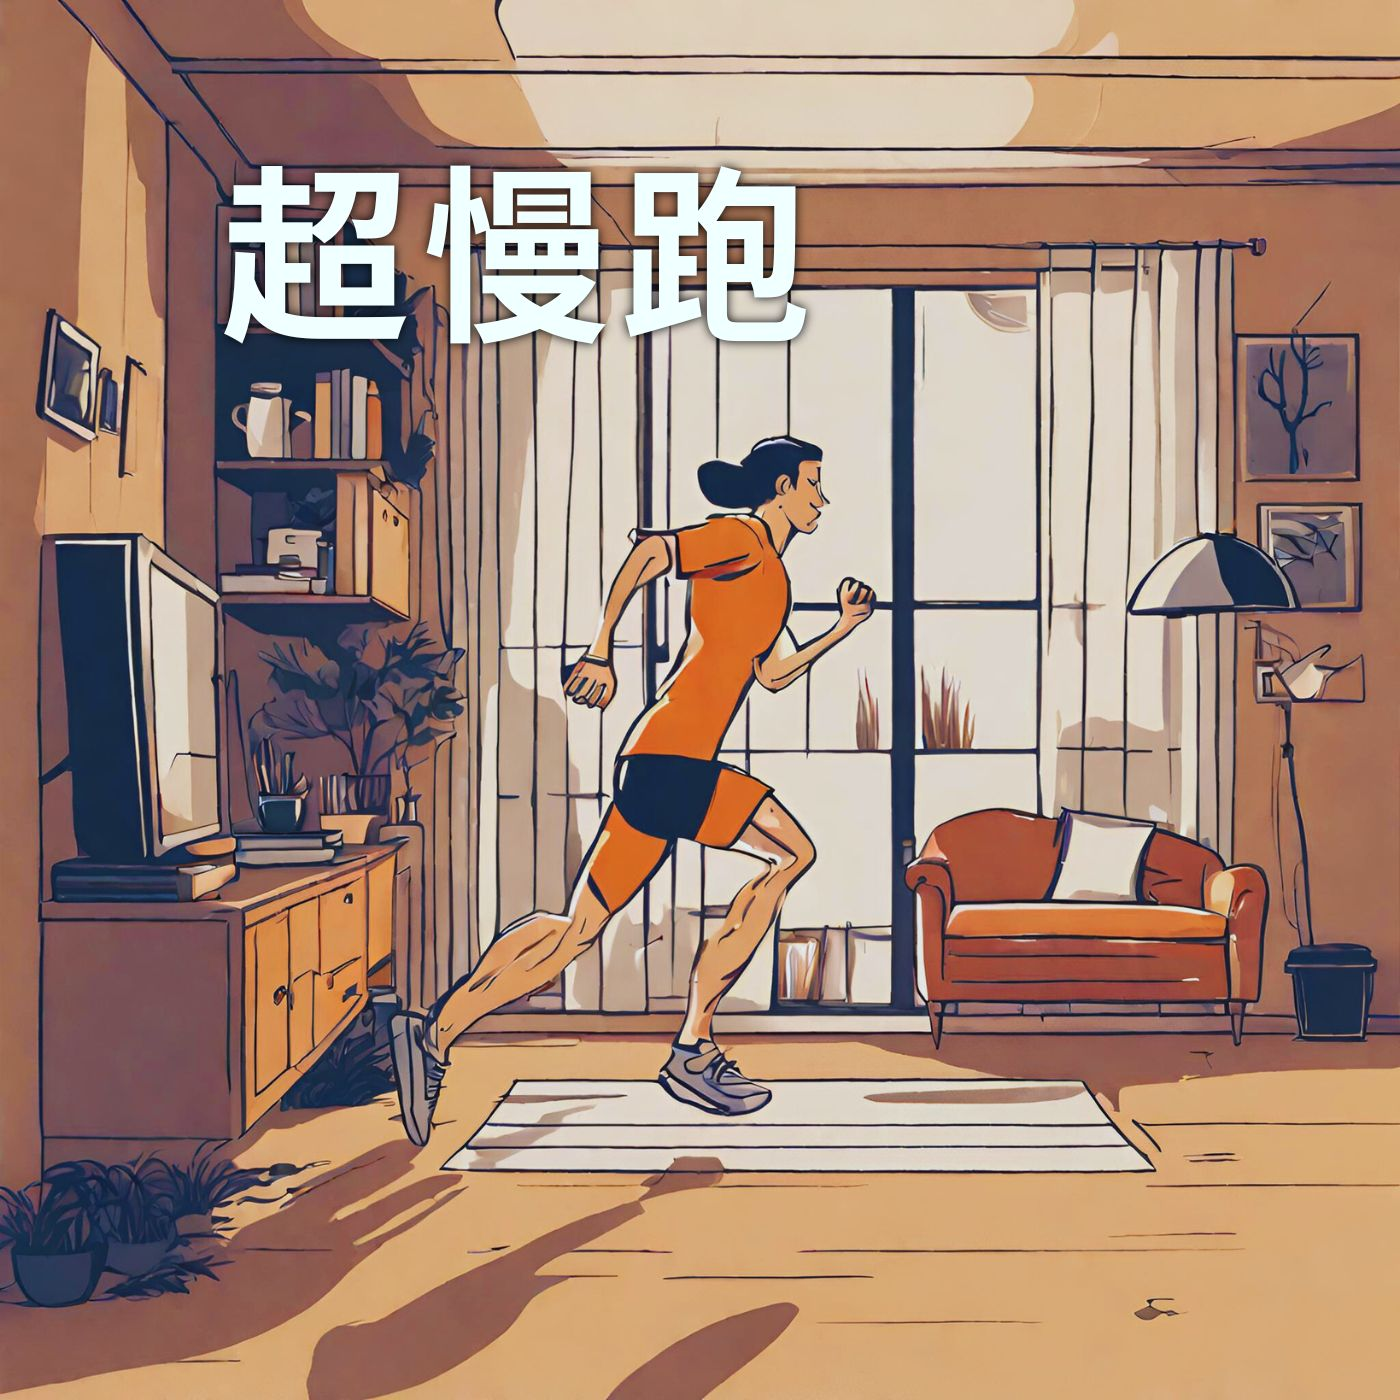
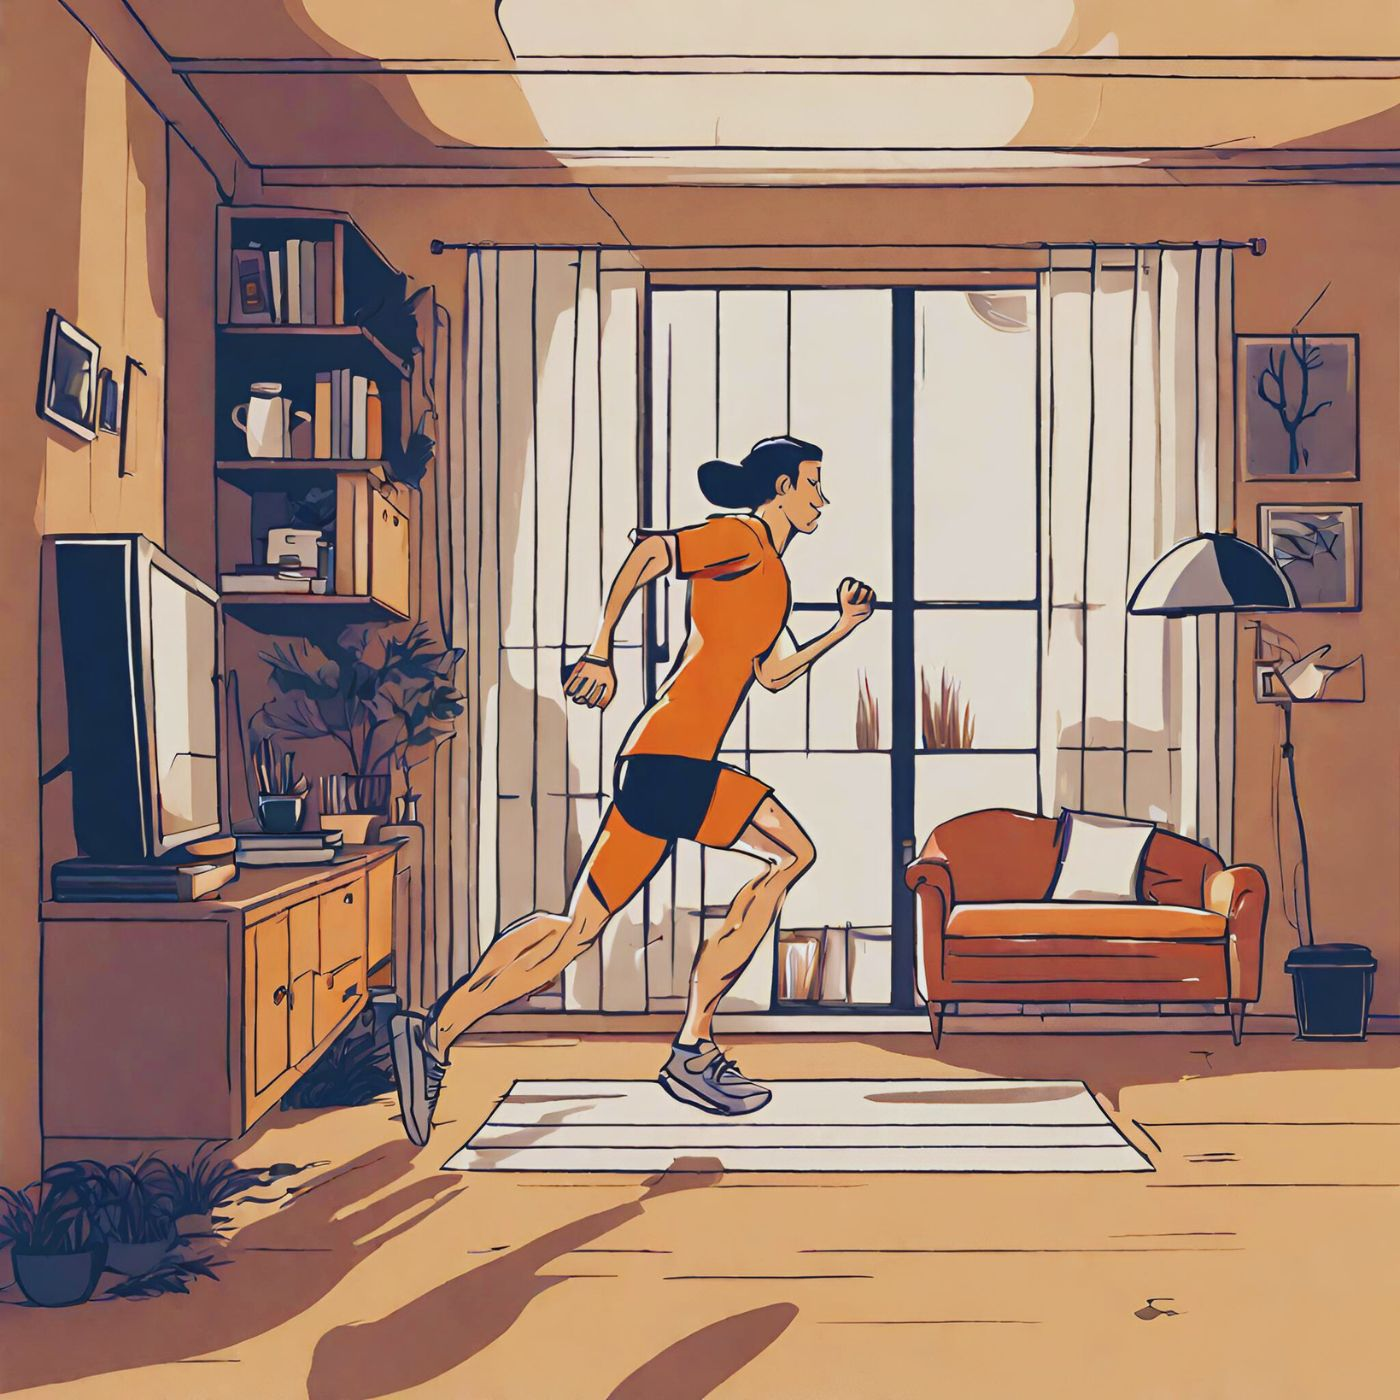
0115-12:40

Changed region(s): [[0.1536, 0.0921, 0.5836, 0.2457]]

diff --git a/index.html b/index.html
@@ -43,19 +43,17 @@
           <div class="grid-container">
             <div class="grid-item large">
               <img
-                id="myImg"
-                src="image/run.jpg"
-                alt="run"
-                style="width: 100%; max-width: 100%"
+                style="
+                  max-width: 100%;
+                  height: auto;
+                  width: 100%;
+                  height: 623px;
+                  background-image: url('image/run.jpg');
+                  background-size: cover;
+                  background-position: center;
+                  border-radius: 8px;
+                "
               />
-              <div class="overlay-content">
-                <p>以輕鬆的步調享受運動，注重健康和愉悅</p>
-                <span class="material-symbols-outlined"
-                  ><a href="run.html" class="image-overlay">
-                    arrow_circle_right
-                  </a></span
-                >
-              </div>
             </div>
             <div class="grid-item vertical">2</div>
             <div class="grid-item vertical">3</div>

diff --git a/css/styles.css b/css/styles.css
@@ -63,6 +63,7 @@ body {
 .menu {
   list-style: none;
   display: flex;
+  margin-left: auto; /* 將 menu 靠右 */
 }
 
 .menu li {
@@ -138,16 +139,6 @@ section {
 .grid-item.large {
   grid-column: span 2;
   grid-row: span 30;
-}
-
-#myImg {
-  border-radius: 5px;
-  cursor: pointer;
-  transition: 0.3s;
-}
-
-#myImg:hover {
-  opacity: 0.7;
 }
 
 .image-overlay {
